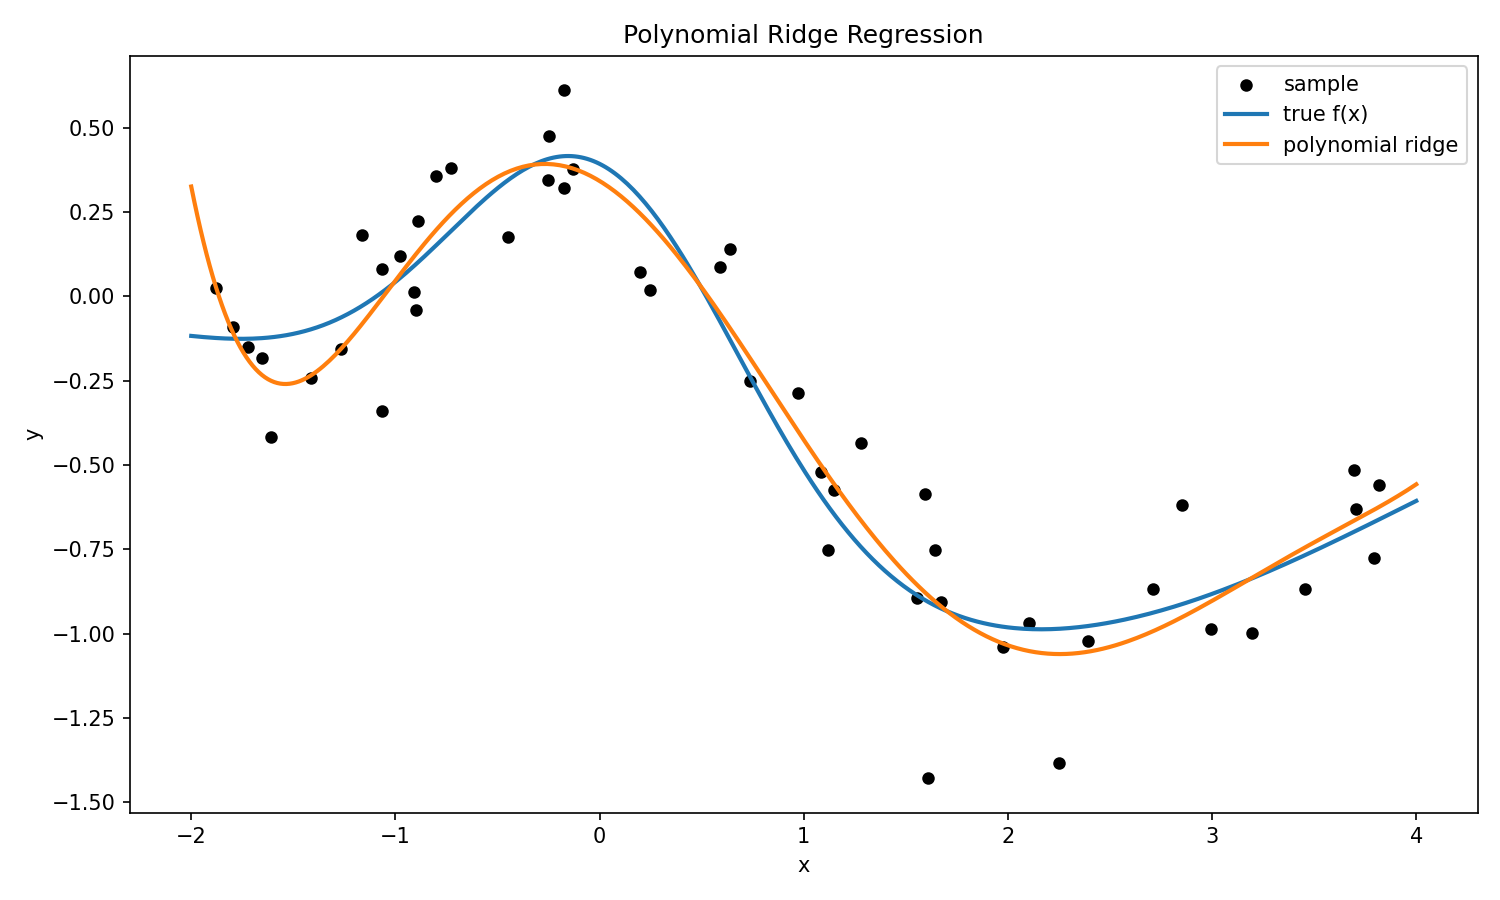
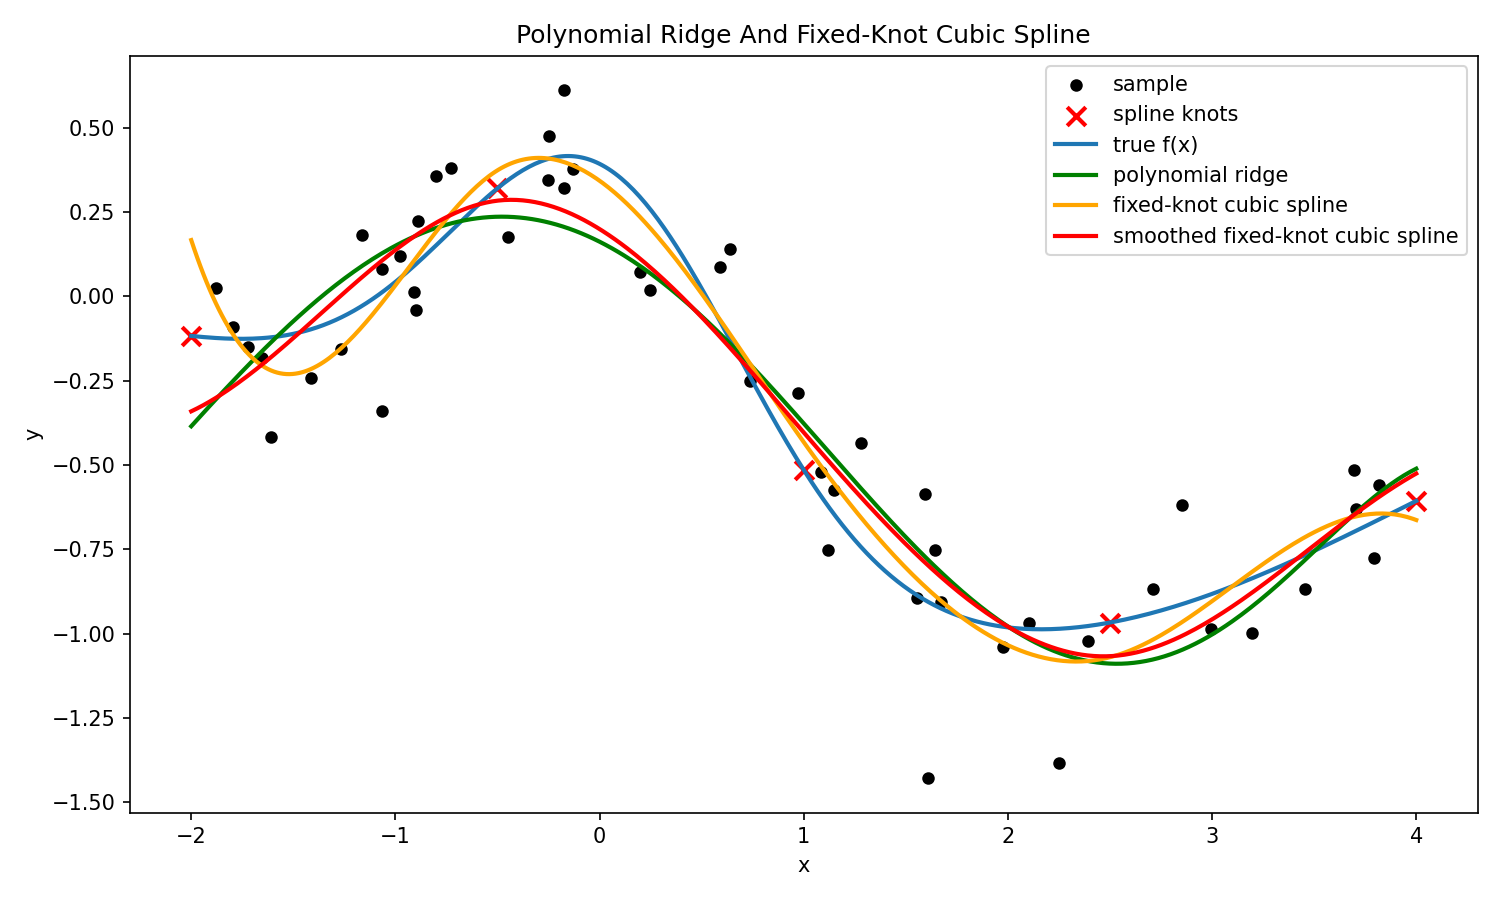
4.3 is ready

diff --git a/statistics_ml/task4/solution.py b/statistics_ml/task4/solution.py
@@ -5,10 +5,9 @@ matplotlib.use("Agg")
 import matplotlib.pyplot as plt
 import numpy as np
 from sklearn.linear_model import Ridge
-from sklearn.metrics import mean_squared_error
-from sklearn.model_selection import KFold
+from sklearn.model_selection import GridSearchCV
 from sklearn.pipeline import Pipeline
-from sklearn.preprocessing import PolynomialFeatures, StandardScaler
+from sklearn.preprocessing import PolynomialFeatures, SplineTransformer, StandardScaler
 
 
 class ExpantionsResolver:
@@ -19,7 +18,10 @@ class ExpantionsResolver:
         self.sigma = 0.2
         self.n_samples = 50
         self.random_state = 42
-        self.result = None
+        self.polynomial_result = None
+        self.spline_result = None
+        self.smoothed_spline_result = None
+        self.fixed_knots = np.array([-2.0, -0.5, 1.0, 2.5, 4.0]).reshape(-1, 1)
         np.random.seed(self.random_state)
 
     @staticmethod
@@ -32,48 +34,130 @@ class ExpantionsResolver:
         y = y_true + np.random.normal(0.0, self.sigma, self.n_samples)
         return x.reshape(-1, 1), y
 
-    def cv_mse(self, degree, alpha, x, y):
-        kf = KFold(n_splits=5, shuffle=True, random_state=self.random_state)
-        scores = []
-        for train_idx, test_idx in kf.split(x):
-            model = Pipeline(
-                [
-                    ("poly", PolynomialFeatures(degree=degree, include_bias=False)),
-                    #("scale", StandardScaler()),
-                    ("ridge", Ridge(alpha=alpha)),
-                ]
-            )
-            model.fit(x[train_idx], y[train_idx])
-            pred = model.predict(x[test_idx])
-            scores.append(mean_squared_error(y[test_idx], pred))
-        return float(np.mean(scores))
-
     def fit_polynomial_ridge(self, x, y):
-        best = None
-        for degree in range(1, 13):
-            for alpha in np.logspace(-6, 3, 25):
-                score = self.cv_mse(degree, alpha, x, y)
-                if best is None or score < best["cv_mse"]:
-                    best = {"degree": degree, "alpha": alpha, "cv_mse": score}
+        pipeline = Pipeline(
+            [
+                ("poly", PolynomialFeatures(include_bias=False)),
+                ("scale", StandardScaler()),
+                ("ridge", Ridge()),
+            ]
+        )
+        param_grid = {
+            "poly__degree": list(range(1, 13)),
+            "ridge__alpha": np.logspace(-6, 3, 25),
+        }
+        search = GridSearchCV(
+            estimator=pipeline,
+            param_grid=param_grid,
+            scoring="neg_mean_squared_error",
+            cv=5,
+            n_jobs=1,
+        )
+        search.fit(x, y)
 
+        self.polynomial_result = {
+            "degree": search.best_params_["poly__degree"],
+            "alpha": search.best_params_["ridge__alpha"],
+            "cv_mse": -search.best_score_,
+        }
+        return search.best_estimator_
+
+    def fit_fixed_knot_cubic_spline(self, x, y):
         model = Pipeline(
             [
-                ("poly", PolynomialFeatures(degree=best["degree"], include_bias=False)),
-                #("scale", StandardScaler()),
-                ("ridge", Ridge(alpha=best["alpha"])),
+                (
+                    "spline",
+                    SplineTransformer(
+                        degree=3,
+                        knots=self.fixed_knots,
+                        include_bias=False,
+                        extrapolation="continue",
+                    ),
+                ),
+                ("ridge", Ridge(alpha=0.0))
             ]
         )
         model.fit(x, y)
-        self.result = best
+        pred = model.predict(x)
+        self.spline_result = {
+            "knots": self.fixed_knots.ravel().tolist(),
+            "train_mse": float(np.mean((y - pred) ** 2)),
+            "degrees_of_freedom": int(model.named_steps["spline"].n_features_out_ + 1),
+        }
         return model
 
-    def make_plot(self, x, y, model):
+    def fit_smoothed_fixed_knot_cubic_spline(self, x, y):
+        pipeline = Pipeline(
+            [
+                (
+                    "spline",
+                    SplineTransformer(
+                        degree=3,
+                        knots=self.fixed_knots,
+                        include_bias=False,
+                        extrapolation="continue",
+                    ),
+                ),
+                ("ridge", Ridge()),
+            ]
+        )
+        param_grid = {"ridge__alpha": np.logspace(-6, 3, 25)}
+        search = GridSearchCV(
+            estimator=pipeline,
+            param_grid=param_grid,
+            scoring="neg_mean_squared_error",
+            cv=5,
+            n_jobs=1,
+        )
+        search.fit(x, y)
+
+        best_model = search.best_estimator_
+        pred = best_model.predict(x)
+        self.smoothed_spline_result = {
+            "knots": self.fixed_knots.ravel().tolist(),
+            "alpha": search.best_params_["ridge__alpha"],
+            "cv_mse": -search.best_score_,
+            "train_mse": float(np.mean((y - pred) ** 2)),
+            "degrees_of_freedom": int(best_model.named_steps["spline"].n_features_out_ + 1),
+        }
+        return best_model
+
+    def make_plot(self, x, y, polynomial_model, spline_model, smoothed_spline_model):
         grid_x = np.linspace(self.domain[0], self.domain[1], 400).reshape(-1, 1)
         plt.figure(figsize=(10, 6))
         plt.scatter(x[:, 0], y, color="black", s=25, label="sample")
+        plt.scatter(
+            self.fixed_knots[:, 0],
+            self.f(self.fixed_knots[:, 0]),
+            color="red",
+            marker="x",
+            s=80,
+            linewidths=2,
+            label="spline knots",
+        )
         plt.plot(grid_x[:, 0], self.f(grid_x[:, 0]), linewidth=2, label="true f(x)")
-        plt.plot(grid_x[:, 0], model.predict(grid_x), linewidth=2, label="polynomial ridge")
-        plt.title("Polynomial Ridge Regression")
+        plt.plot(
+            grid_x[:, 0],
+            polynomial_model.predict(grid_x),
+            linewidth=2,
+            color="green",
+            label="polynomial ridge",
+        )
+        plt.plot(
+            grid_x[:, 0],
+            spline_model.predict(grid_x),
+            linewidth=2,
+            color="orange",
+            label="fixed-knot cubic spline",
+        )
+        plt.plot(
+            grid_x[:, 0],
+            smoothed_spline_model.predict(grid_x),
+            linewidth=2,
+            color="red",
+            label="smoothed fixed-knot cubic spline",
+        )
+        plt.title("Polynomial Ridge And Fixed-Knot Cubic Spline")
         plt.xlabel("x")
         plt.ylabel("y")
         plt.legend()
@@ -83,18 +167,41 @@ class ExpantionsResolver:
 
     def resolve(self):
         x, y = self.generate_sample()
-        model = self.fit_polynomial_ridge(x, y)
-        self.make_plot(x, y, model)
+        polynomial_model = self.fit_polynomial_ridge(x, y)
+        spline_model = self.fit_fixed_knot_cubic_spline(x, y)
+        smoothed_spline_model = self.fit_smoothed_fixed_knot_cubic_spline(x, y)
+        self.make_plot(x, y, polynomial_model, spline_model, smoothed_spline_model)
+
+        print("\n#########################\n")
         print("Task 4. Point 1")
         print(f"Domain: {self.domain}")
         print(f"Sigma: {self.sigma}")
         print(f"N: {self.n_samples}")
         print(f"Plot saved to: {self.plot_path}")
         print("Best polynomial ridge model")
-        print(f"Degree: {self.result['degree']}")
-        print(f"Alpha: {self.result['alpha']}")
-        print(f"CV MSE: {self.result['cv_mse']}")
-        print(f"Degrees of freedom (approx): {self.result['degree'] + 1}")
+        print(f"Degree: {self.polynomial_result['degree']}")
+        print(f"Alpha: {self.polynomial_result['alpha']}")
+        print(f"CV MSE: {self.polynomial_result['cv_mse']}")
+        print(f"Degrees of freedom (approx): {self.polynomial_result['degree'] + 1}")
+
+        print("\n#########################\n")
+        print("Task 4. Point 2")
+        print("Fixed-knot cubic spline without smoothing")
+        print(f"Knots: {self.spline_result['knots']}")
+        print(f"Train MSE: {self.spline_result['train_mse']}")
+        print(f"Degrees of freedom (approx): {self.spline_result['degrees_of_freedom']}")
+
+        print("\n#########################\n")
+        print("Task 4. Point 3")
+        print("Fixed-knot cubic spline with smoothing")
+        print(f"Knots: {self.smoothed_spline_result['knots']}")
+        print(f"Alpha: {self.smoothed_spline_result['alpha']}")
+        print(f"CV MSE: {self.smoothed_spline_result['cv_mse']}")
+        print(f"Train MSE: {self.smoothed_spline_result['train_mse']}")
+        print(
+            "Degrees of freedom (approx): "
+            f"{self.smoothed_spline_result['degrees_of_freedom']}"
+        )
 
 
 if __name__ == "__main__":
